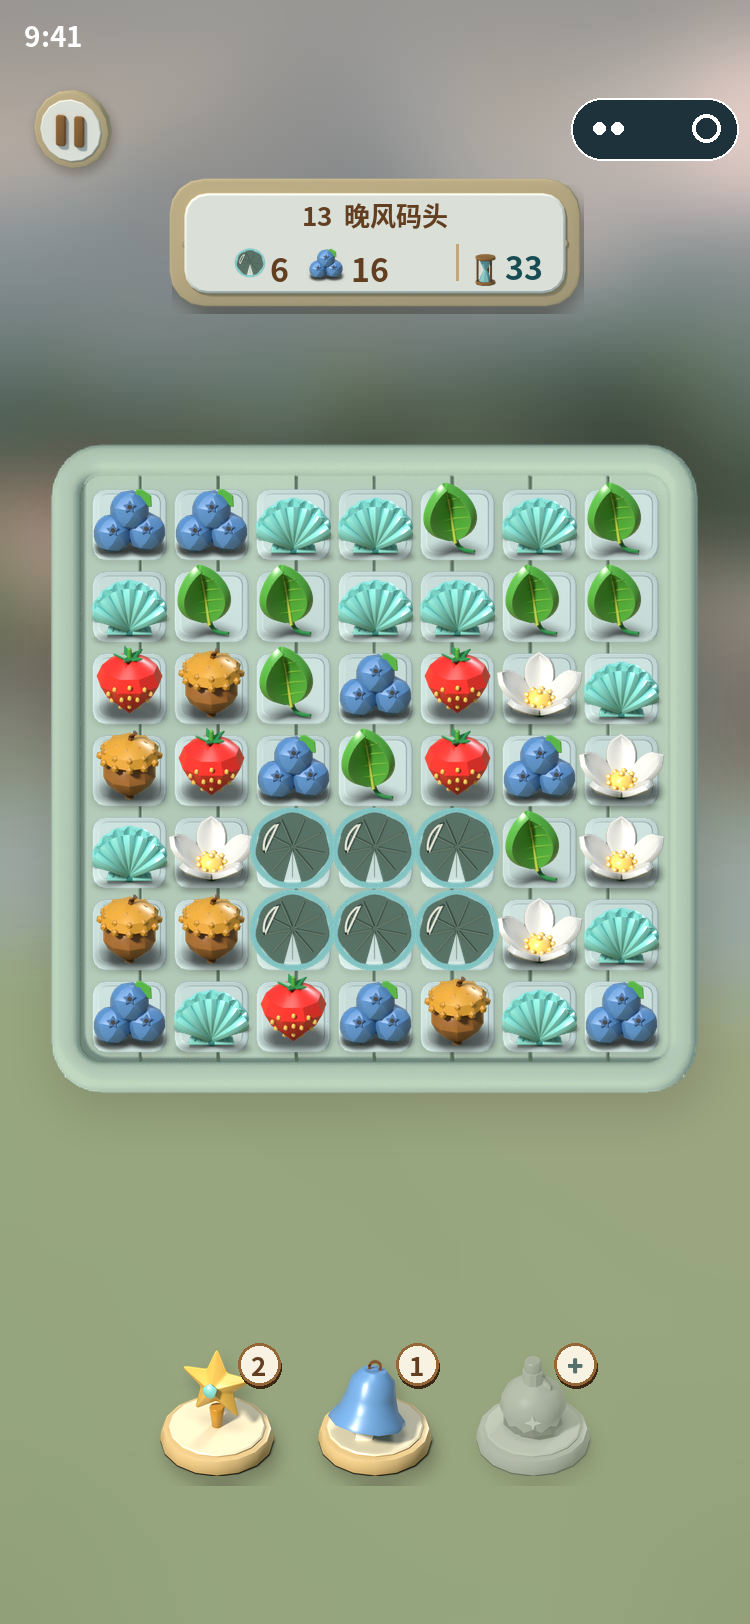
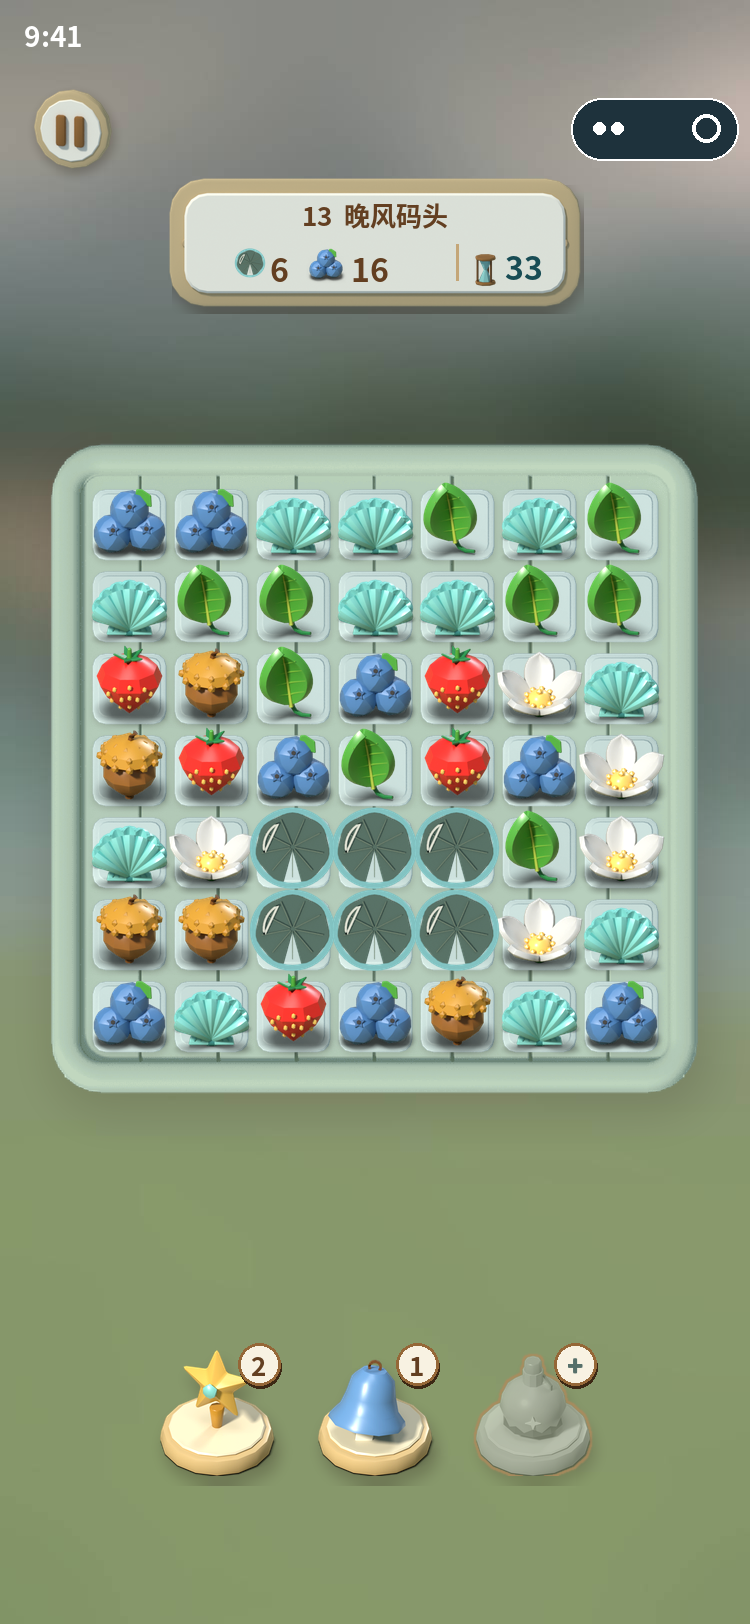
b16 UI fixes r2 (audit ui-b16-fixes-9d4fcaa8): r6 lakeside v2.2 bg, empty tool rim, measure_visible gates, P1 sign keeps retrying, L13 rule guide clears HUD
- r6 day: sat x0.38, val x0.88, fog 6%, blur 20 + depth blur, lake-band teal 40%, grass warm, contrast 0.85
  (L13/L16: bg S 23.8/23.7 <= board 24.2/25.4, saliency 10.25/11.22, dL 28.0/20.7, grass 135/152/107, water 108/127/120)
- r6 night: lift (14,18,30), sat x0.6, lake-band 40/66/100 45%, contrast 0.70 (bg L 94.9/94.4, saliency 10.12/11.13, water 63/82/93)
- 3rd empty tool base: 1pt warm rim #b08a5c + shadow 0.20
- measure_visible.py: PASS/FAIL per check, exit 1 on any fail; roof sample adds x52-140 y440-505
- P1: after falling back to the flat 继续旅程 button, retry the 3D sign every 1 s (button stays tappable); budget resets off the island
- L13 rule guide: ruleGuideDy moves the panel below the HUD plate (+12 pt incl. title plank), bottom above safe area (320x568..390x844, 1-9 lines)
- run-suite: + ui-b16-fixes (tools/ui-b16-fixes/test_b16_ui_fixes.cjs, 8 checks incl. measure_visible gate)

Tests:
  QF_TYPESCRIPT_MODULE=/tmp/ts5/node_modules/typescript node tools/journey-integration/run-suite.cjs
  QF_TYPESCRIPT_MODULE=/tmp/ts5/node_modules/typescript node tools/ui-b16-fixes/test_b16_ui_fixes.cjs
  python3 docs/r6/ui/tools/measure_visible.py docs/r6/ui/board_L13_390x844.png docs/r6/ui/board_L16_390x844.png docs/r6/ui/board_L13_night_390x844.png docs/r6/ui/board_L16_night_390x844.png

diff --git a/creator-build-project/assets/scripts/ManagedMobileBoardUI.ts b/creator-build-project/assets/scripts/ManagedMobileBoardUI.ts
@@ -5,7 +5,7 @@ import type { LevelBackgroundStatus, LevelBackgroundFrame } from './world-r2/Lev
 import { GameAudio } from './audio/GameAudio';
 import { BoardArt, PIECE_KEYS, TOOL_KEYS, toolDisplaySize } from './ui/BoardArt';
 import { MINIGAME } from 'cc/env';
-import { boardLayout, boardSafeInsets, cellCenter, pickToolBar, qaForcedToolBar, toolSlots, CELL, IdleHintClock, TOAST_S, type BoardLayout, type SafeArea } from './ui/BoardLayout';
+import { ruleGuideDy, boardLayout, boardSafeInsets, cellCenter, pickToolBar, qaForcedToolBar, toolSlots, CELL, IdleHintClock, TOAST_S, type BoardLayout, type SafeArea } from './ui/BoardLayout';
 import { PopupStack, TintSet, artButton, makeLabel, measure, playSound, pressable as bindPressable, resetPresses, type PressHandle } from './ui/PopupKit';
 import { INTRO_TEXT, SEEN_ID, openBag, openReward, openSettings, openToolIntro, type RewardItem } from './ui/CommonPanels';
 import { openPause, openRestartConfirm, openResult, type ResultModel, type ResultReward } from './ui/BoardPanels';
@@ -943,7 +943,8 @@ export class ManagedMobileBoardUI extends Component {
     // 左右都压到木边下面。改为左对齐、文字盒宽 RULE_BODY_W=480，两侧各留 100（木边约 70 + 安全边距约 30，即屏幕上约 15pt），行数按每段 472 估算，避免 CLAMP 裁字。
     const RULE_BODY_W = 480;
     const body = [guide.rule, guide.tool?.description].filter(Boolean).join('\n'), lines = Math.min(9, body.split('\n').reduce((n, ln) => n + Math.max(1, Math.ceil(measure(ln, 28) / (RULE_BODY_W - 8))), 0));
-    const ph = 104 + 48 + 40 + lines * 40 + 48 + 104 + 72, p = this.popups.open({ name: 'RuleGuidePanel', height: ph, title: guide.title || '这一关的规则' });
+    const ph = 104 + 48 + 40 + lines * 40 + 48 + 104 + 72, vw = this.layoutInfo?.width || 390, vh = this.layoutInfo?.height || 844, plateBottom = this.geo ? this.geo.plate.y + this.geo.plate.height / 2 : 0,
+      p = this.popups.open({ name: 'RuleGuidePanel', height: ph, title: guide.title || '这一关的规则', dy: ruleGuideDy(vw, vh, ph, plateBottom, this.layoutInfo?.safe?.bottom ?? 34) });
     p.text(guide.phaseLabel + (guide.heldTurns ? ' · 固定 ' + guide.heldTurns + ' 次行动' : ''), 0, 128, 26, 'brown2', { bold: false, width: RULE_BODY_W });
     p.text(body, -RULE_BODY_W / 2, 192 + lines * 20, 28, 'brown', { bold: false, width: RULE_BODY_W, lines, height: lines * 40 + 8, align: 'left', name: 'RuleBody' });
     p.button('primary', '明白了', 0, ph - 72 - 52, 400, 104, () => p.close(), { fontSize: 36, name: 'GotIt' });

diff --git a/creator-build-project/assets/scripts/WorldIntegrationBoot.ts b/creator-build-project/assets/scripts/WorldIntegrationBoot.ts
@@ -617,7 +617,7 @@ export class WorldIntegrationBoot extends Component {
   * - level/skycity (+ their loading) and paused: unchanged (the island behind the board keeps its sign; no flicker on
   *   a level round trip). */
  private signShown=1;private signOut=-1;private signPrev='';
- private signRetry=0;
+ private signRetry=0;private signRetryAt=0;
  private setSign(e:number,risePx:number){const ok=this.islandProps?.setSignEntrance(e,risePx);if(ok!==false)this.signShown=e;} // b16-fix P1: props not ready -> signShown unchanged, so the entrance replays once they are
  private gateSignEntrance(state:string,dt=0){const p=this.islandProps,prev=this.signPrev;this.signPrev=state;if(!p?.ready)return;
   if(SIGN_AWAY_STATES.indexOf(state)>=0){this.signEntrance=-1;
@@ -637,7 +637,11 @@ export class WorldIntegrationBoot extends Component {
    if(s.state==='island'&&m.active)sign=p.signRect(f.width,f.height);}
   const was=this.propSign;this.propSign=!!sign;setPropTapLook(!!p?.ready&&(this.propSign||!!this.islandJourney?.dockVisible()));
   // b16-fix P1 (build05 全流程测试 P1-1)：入场已结束但木牌并不可见时，不能留一个看不见的点击区。先重放一次入场；仍不可见就退回可见的平面「继续旅程」按钮。
-  if(sign&&p&&this.islandEntrance<0&&this.signEntrance<0&&typeof (p as any).signVisible==='function'&&!(p as any).signVisible()){if(this.signRetry<1){this.signRetry++;this.signShown=0;this.signEntrance=0;}else sign=null;}
+  // v2.2（验收 E）：退回平面按钮后不放弃 3D 木牌：平面按钮保持可见可点，每 1 s 在后台把木牌直接设为完全显示再查一次，一旦可见就切回木牌；离开小岛清零重来。
+  if(s.state!=='island')this.signRetry=0;
+  if(sign&&p&&this.islandEntrance<0&&this.signEntrance<0&&typeof (p as any).signVisible==='function'&&!(p as any).signVisible()){
+   if(this.signRetry<1){this.signRetry++;this.signShown=0;this.signEntrance=0;}
+   else{const now=Date.now();if(now-this.signRetryAt>=1000){this.signRetryAt=now;this.signRetry++;this.setSign(1,0);}if(!(p as any).signVisible())sign=null;}}
   else if(sign&&this.islandEntrance<0&&this.signEntrance<0)this.signRetry=0;
   this.propSign=!!sign;setPropTapLook(!!p?.ready&&(this.propSign||!!this.islandJourney?.dockVisible()));
   if(sign&&(this.islandEntrance>=0||this.signEntrance>=0))sign={x:sign.x,y:sign.y,width:0,height:0}; // hit area live only once the signpost entrance finished

diff --git a/creator-build-project/assets/scripts/ui/BoardLayout.ts b/creator-build-project/assets/scripts/ui/BoardLayout.ts
@@ -128,3 +128,12 @@ export function boardSafeInsets(w: number, h: number): SafeArea & { portrait: bo
   if (!capsule && portrait) capsule = { top: top + 4, bottom: top + 36, left: w - 93, right: w - 6 };
   return { top, bottom, left, right, portrait, capsule };
 }
+
+/** b16-fix（验收 9d4fcaa8：L13 规则弹窗在 320×568 上要不顶到 HUD）：弹窗默认居中；面板顶（含半块标题木牌 52.5 设计 px）若高过信息牌底 + 12 pt，
+ *  就整体往下挪，但底边不低于屏幕底安全区上方 12 pt。返回 PopupPanel 的 dy（750 设计 px，正值向下）。纯函数。 */
+export function ruleGuideDy(width: number, height: number, panelH: number, plateBottom: number, safeBottom: number): number {
+  const s = Math.max(0.3, Math.min(width / 750, height / 1300, 0.62)), top = height / 2 - panelH * s / 2 - 52.5 * s, want = plateBottom + 12;
+  const room = (height - safeBottom - 12) - (height / 2 + panelH * s / 2);
+  const down = Math.max(0, Math.min(want - top, room));
+  return down / s;
+}

diff --git a/docs/r6/ui/tools/lake_bg.py b/docs/r6/ui/tools/lake_bg.py
@@ -9,10 +9,10 @@ from PIL import Image,ImageFilter
 REF=sys.argv[1] if len(sys.argv)>1 else os.environ.get('LAKE_REF','/workspace/wechat-game/art/regions/lakeside/ENGINE_COLOR_REFERENCE/engine_cam_r5h3/ref_390x844_graded.png')
 OUT=sys.argv[2] if len(sys.argv)>2 else os.path.join(os.path.dirname(os.path.abspath(__file__)),'..','slices')
 W,H=750,1624
-BLUR=36                      # px @750；v2 起不受引擎 10 点约束，大模糊把背景细节压掉（显著性主要来自树林、房顶的边缘）
-DAY_SAT,DAY_VAL,FOG,FOG_RGB=0.40,0.90,0.16,(250,246,236)   # 明度 ×0.90 而不是 ×1.08：×1.08 时草地 169/189/133，离验收目标 135/160/95 更远
+BLUR=20                      # px @750；v2 起不受引擎 10 点约束，大模糊把背景细节压掉（显著性主要来自树林、房顶的边缘）
+DAY_SAT,DAY_VAL,FOG,FOG_RGB=0.38,0.88,0.06,(250,246,236)   # 明度 ×0.90 而不是 ×1.08：×1.08 时草地 169/189/133，离验收目标 135/160/95 更远
 ROOF_BOX=(0,440,140,860); ROOF_SMAX,ROOF_DARK=0.36,0.92      # 左侧红房顶所在区域（750 宽 px），约 y230–450pt
-NIGHT=(0.42,0.52,0.68); NIGHT_LIFT=(28,32,46); NIGHT_SAT=0.5   # 夜间整体比 cd5545d 提亮到旧版夜间的亮度水平（背景 L≈99），否则显著性只有 8.8
+NIGHT=(0.42,0.52,0.68); NIGHT_LIFT=(14,18,30); NIGHT_SAT=0.6   # 夜间整体比 cd5545d 提亮到旧版夜间的亮度水平（背景 L≈99），否则显著性只有 8.8
 def hsv_scale(im,sat=1.0,val=1.0):
     h,s,v=[np.asarray(c).astype(float) for c in im.convert('HSV').split()]
     s=np.clip(s*sat,0,255); v=np.clip(v*val,0,255)
@@ -29,14 +29,43 @@ def roof_fix(im):
     return Image.fromarray(out,'HSV').convert('RGB')
 def base():
     return Image.open(REF).convert('RGB').resize((W,H),Image.LANCZOS)
+LAKE_BAND=(600,860,60); LAKE_RGB=(92,140,150); LAKE_K=0.40   # v2.2：湖面带（750 宽 px 的 y0,y1,羽化）向湖青色混 40%，让左缘露出的水面读作蓝绿而不是灰橄榄
+def lake_tint(d,k):
+    a=np.asarray(d).astype(float); y=np.arange(H)[:,None]; y0,y1,f=LAKE_BAND
+    m=np.clip(np.minimum(y-y0,y1-y)/f,0,1)*k; a=a*(1-m[...,None])+np.array(LAKE_RGB)*m[...,None]
+    return Image.fromarray(a.clip(0,255).astype(np.uint8))
+import os as _os
+DAY_CONTRAST=0.85   # v2.2：背景整体对比压到 0.85（围绕全图均值），压低背景显著性
+SOFT_K,SOFT_BLUR=0.7,48   # v2.2：大尺度模糊混入比例（压背景边缘对比、保留中尺度形体）
+for _k in ('DAY_SAT','DAY_VAL','FOG','BLUR','LAKE_K','NIGHT_SAT','SOFT_K','DAY_CONTRAST'):
+    if _os.environ.get('LB_'+_k): globals()[_k]=float(_os.environ['LB_'+_k])
+BLUR=int(BLUR)
+GRASS_Y,GRASS_F,GRASS_MUL=1080,80,(1.0,1.03,0.95)   # v2.2：前景草地回暖（B 压低），目标约 135/160/95
+def grass_warm(d):
+    a=np.asarray(d).astype(float); y=np.arange(H)[:,None]; m=np.clip((y-GRASS_Y)/GRASS_F,0,1)[...,None]
+    a=a*(1+(np.array(GRASS_MUL)-1)*m); return Image.fromarray(a.clip(0,255).astype(np.uint8))
 def day(b):
-    d=hsv_scale(b,DAY_SAT,DAY_VAL); d=roof_fix(d)
+    d=hsv_scale(b,DAY_SAT,DAY_VAL); d=roof_fix(d); d=lake_tint(d,LAKE_K); d=grass_warm(d)
     d=Image.blend(d,Image.new('RGB',(W,H),FOG_RGB),FOG)
-    return d.filter(ImageFilter.GaussianBlur(BLUR))
+    d=soft(d); a=np.asarray(d).astype(float); mu=a.reshape(-1,3).mean(0)
+    return Image.fromarray((mu+DAY_CONTRAST*(a-mu)).clip(0,255).astype(np.uint8))   # v2.2：背景整体对比压到 DAY_CONTRAST
+def soft(d):
+    a=d.filter(ImageFilter.GaussianBlur(BLUR))
+    # 景深：托盘上方的远景树林（y<520）整块用大模糊，往下到 y720 过渡回 SOFT_K
+    b=np.asarray(d.filter(ImageFilter.GaussianBlur(SOFT_BLUR))).astype(float); a=np.asarray(a).astype(float)
+    y=np.arange(H)[:,None]; w=np.clip(SOFT_K+(1-SOFT_K)*(720-y)/200,SOFT_K,1)[...,None]
+    return Image.fromarray((a*(1-w)+b*w).clip(0,255).astype(np.uint8))
+NIGHT_LAKE_RGB,NIGHT_LAKE_K,NIGHT_CONTRAST=(40,66,100),0.45,0.70   # v2.2 夜间：湖面带混深蓝青（B 比 G 高 8 以上），对比压到 0.70
+for _k in ('NIGHT_LAKE_K','NIGHT_CONTRAST'):
+    if _os.environ.get('LB_'+_k): globals()[_k]=float(_os.environ['LB_'+_k])
 def night(b):
-    b=roof_fix(b).filter(ImageFilter.GaussianBlur(BLUR)); r,g,bl=b.split()
+    b=roof_fix(b); r,g,bl=b.split()
     n=Image.merge('RGB',[c.point(lambda v,k=k,l=l:min(255,int(v*k+l))) for c,k,l in zip((r,g,bl),NIGHT,NIGHT_LIFT)])
-    return keep_value_desat(n,NIGHT_SAT)
+    n=keep_value_desat(n,NIGHT_SAT)
+    a=np.asarray(n).astype(float); y=np.arange(H)[:,None]; y0,y1,f=LAKE_BAND
+    m=(np.clip(np.minimum(y-y0,y1-y)/f,0,1)*NIGHT_LAKE_K)[...,None]; a=a*(1-m)+np.array(NIGHT_LAKE_RGB)*m
+    n=soft(Image.fromarray(a.clip(0,255).astype(np.uint8))); a=np.asarray(n).astype(float); mu=a.reshape(-1,3).mean(0)
+    return Image.fromarray((mu+NIGHT_CONTRAST*(a-mu)).clip(0,255).astype(np.uint8))
 if __name__=='__main__':
     b=base()
     for im,name in ((day(b),'bg_lakeside_board.jpg'),(night(b),'bg_lakeside_board_night.jpg')):

diff --git a/docs/r6/ui/tools/measure_visible.py b/docs/r6/ui/tools/measure_visible.py
@@ -2,12 +2,16 @@
 # 输出：棋盘/背景平均饱和度（HSV S）、亮度、显著性（谱残差法，棋盘/背景，口径同 ui-audit 2026-10-22 metrics.py）、
 #       各可见区域中位色与饱和度：草地、树林、左侧房顶（红色像素）、左缘水面。
 # 合格线（ui-audit 2026-10-22）：背景饱和度 ≤ 棋盘饱和度；显著性 ≥ 10；白天草地约 135/160/95；房顶饱和度 < 40%；夜间湖色 B ≥ G > R。
-# python3 measure_visible.py IMG.png [...]
+# v2.2：加合格判定（ui-audit 2026-10-22/ui-b16-fixes-9d4fcaa8 的 A/B 目标），任一不合格退出码 1。文件名含 night 按夜间判定，或加 --night / --day 强制。
+#   白天：背景 S 22–25% 且 ≤ 棋盘 S；草地中位色 135/160/95 每通道 ±12；左缘水面 G−R>10 且 B−R>10；显著性 ≥10；亮度差(盘−背景) ≥20；房顶 S <40%
+#   夜间：背景 S ≤ 棋盘 S；背景亮度 85–95；左缘水面 B−G ≥8 且 B≥G>R；显著性 ≥10；房顶 S <40%
+#   房顶取样 = 左缘 x<52 (y440–860) + 托盘上方 x52–140 (y440–505)，两块合并（v2 漏了后者）。
+# python3 measure_visible.py [--night|--day] IMG.png [...]
 import sys,numpy as np
 from PIL import Image
 from scipy.ndimage import uniform_filter,gaussian_filter
 BOARD=(52,505,697,1150)                     # x0,y0,x1,y1 托盘（与验收脚本一致）
-REG={'grass':(40,1160,710,1340),'trees':(0,330,750,430),'roof_left':(0,440,52,860),'water_left':(0,680,44,780)}
+REG={'grass':(40,1160,710,1340),'trees':(0,330,750,430),'roof_left':[(0,440,52,860),(52,440,140,505)],'water_left':(0,680,44,780)}
 def sal(g):
     F=np.fft.fft2(g);L=np.log(np.abs(F)+1e-9);P=np.angle(F);R=L-uniform_filter(L,3)
     return gaussian_filter(np.abs(np.fft.ifft2(np.exp(R+1j*P)))**2,3)
@@ -20,12 +24,36 @@ def run(p):
     S=sal(sm);S=np.array(Image.fromarray(S.astype(np.float32)).resize((750,1624)));S=S/S.sum()
     out={'board_S%':hsv[m][:,1].mean()/2.55,'bg_S%':hsv[bgm][:,1].mean()/2.55,'board_L':lum[m].mean(),'bg_L':lum[bgm].mean(),'saliency':S[m].mean()/S[bgm].mean()}
     print('%s\n  饱和度 棋盘 %.1f%%  背景 %.1f%%   亮度 棋盘 %.1f 背景 %.1f   显著性(盘/背景) %.2f'%(p.split('/')[-1],out['board_S%'],out['bg_S%'],out['board_L'],out['bg_L'],out['saliency']))
-    for k,(x0,y0,x1,y1) in REG.items():
-        px=a[y0:y1,x0:x1].reshape(-1,3);hs=hsv[y0:y1,x0:x1].reshape(-1,3)
+    for k,box in REG.items():
+        boxes=box if isinstance(box,list) else [box]
+        px=np.concatenate([a[y0:y1,x0:x1].reshape(-1,3) for x0,y0,x1,y1 in boxes]);hs=np.concatenate([hsv[y0:y1,x0:x1].reshape(-1,3) for x0,y0,x1,y1 in boxes])
         if k=='roof_left':
             h=hs[:,0]*360/255;sel=((h<40)|(h>330))&(hs[:,1]>40)&(hs[:,2]>60)
             if sel.sum()<20: sel=np.ones(len(px),bool)
             px,hs=px[sel],hs[sel]
-        c=np.median(px,0);print('  %-10s 中位色 %3d/%3d/%3d  饱和度 %.1f%%  (n=%d)%s'%(k,*c,hs[:,1].mean()/2.55,len(px),'  B≥G>R' if c[2]>=c[1]>c[0] else ''))
+        c=np.median(px,0);out[k]=(c,hs[:,1].mean()/2.55);print('  %-10s 中位色 %3d/%3d/%3d  饱和度 %.1f%%  (n=%d)%s'%(k,*c,hs[:,1].mean()/2.55,len(px),'  B≥G>R' if c[2]>=c[1]>c[0] else ''))
     return out
-for p in sys.argv[1:]: run(p)
+def judge(o,night):
+    S=o['board_S%'];bS=o['bg_S%'];g,_=o['grass'];w,_=o['water_left'];_,rs=o['roof_left'];chk=[]
+    chk.append(('背景饱和度 ≤ 棋盘',bS<=S,'%.1f ≤ %.1f'%(bS,S)))
+    chk.append(('显著性 ≥10',o['saliency']>=10,'%.2f'%o['saliency']))
+    chk.append(('房顶饱和度 <40%',rs<40,'%.1f%%'%rs))
+    if night:
+        chk.append(('背景亮度 85–95',85<=o['bg_L']<=95,'%.1f'%o['bg_L']))
+        chk.append(('水面 B−G ≥8 且 B≥G>R',w[2]-w[1]>=8 and w[2]>=w[1]>w[0],'%d/%d/%d'%tuple(w)))
+    else:
+        chk.append(('背景饱和度 22–25%',22<=bS<=25,'%.1f'%bS))
+        chk.append(('草地 135/160/95 ±12',all(abs(g[i]-t)<=12 for i,t in enumerate((135,160,95))),'%d/%d/%d'%tuple(g)))
+        chk.append(('水面 G−R>10 且 B−R>10',w[1]-w[0]>10 and w[2]-w[0]>10,'%d/%d/%d'%tuple(w)))
+        chk.append(('亮度差 ≥20',o['board_L']-o['bg_L']>=20,'%.1f'%(o['board_L']-o['bg_L'])))
+    for n,okk,v in chk: print('  %s %s  (%s)'%('PASS' if okk else 'FAIL',n,v))
+    return all(c[1] for c in chk)
+force=None;files=[]
+for a in sys.argv[1:]:
+    if a in('--night','--day'): force=a=='--night'
+    else: files.append(a)
+bad=0
+for p in files:
+    o=run(p);night=force if force is not None else ('night' in p.split('/')[-1])
+    if not judge(o,night): bad+=1
+print('合格 %d/%d'%(len(files)-bad,len(files)));sys.exit(1 if bad else 0)

diff --git a/art-src/board-ui/b-board/src/compose.py b/art-src/board-ui/b-board/src/compose.py
@@ -9,6 +9,7 @@ def font(px,idx=2): return ImageFont.truetype(FB,int(px),index=idx)
 BROWN=(99,63,33); CREAM=(248,242,226)
 # 空道具位「+」：禁用态灰青。r6-fix v2 压到 #56706a（夜间乘 #b8bfd6 后给 4.5 留余量），笔画 +1px@750。旧 #78968c 只有 2.87 / 2.58
 PLUS_DIM=(86,112,106)
+WARM_RIM=(176,138,92,255)   # 空道具底座描边：托盘木边同色系
 def L(n): return Image.open(os.path.join(RAW,n+'.png')).convert('RGBA')
 def scaled(im,f): return im.resize((max(1,round(im.width*f)),max(1,round(im.height*f))),Image.LANCZOS)
 def paste_c(dst,im,cx,cy): dst.alpha_composite(im,(round(cx-im.width/2),round(cy-im.height/2)))
@@ -145,7 +146,11 @@ def tools(img,state):
         dim=cnt==0
         if dim:
             g=ImageOps.grayscale(t.convert('RGB')).convert('RGBA'); g=Image.blend(g,Image.new('RGBA',g.size,(200,214,206,255)),0.25); g.putalpha(t.getchannel('A').point(lambda v:int(v*0.55))); t=g
-        img.alpha_composite(shadow_of(t,7,0.25 if not dim else 0.12),(round(x-t.width/2)+4,round(y-t.height/2)+10))
+        img.alpha_composite(shadow_of(t,7,0.25 if not dim else 0.20),(round(x-t.width/2)+4,round(y-t.height/2)+10))
+        if dim:   # v2.2：空道具底座在灰背景上看不见 → 1pt（750 宽 2px）暖木色描边，抗锯齿
+            a=t.getchannel('A').point(lambda v:255 if v>40 else 0); ring=a.filter(ImageFilter.MaxFilter(5)).filter(ImageFilter.GaussianBlur(0.8))
+            o=Image.new('RGBA',t.size,WARM_RIM); o.putalpha(ImageChops.subtract(ring,a.filter(ImageFilter.GaussianBlur(0.6))).point(lambda v:min(255,int(v*0.85))))
+            paste_c(img,o,x,y)
         paste_c(img,t,x,y)
         badge(img,x+42,y-40,cnt,dim)
 # ---------------- frames ----------------

diff --git a/docs/r6/ui/RESULT.md b/docs/r6/ui/RESULT.md
@@ -221,3 +221,20 @@ NODE_PATH=/tmp/ts5/node_modules QF_TYPESCRIPT_MODULE=/tmp/ts5/node_modules/types
 - reward-background-return：BLOCKED_NODE（需要 Node ≥22.6）。
 - navigation-guard：BLOCKED_BROWSER。
 运行会改写 reports/ 和 output/retry-protection-results.json，提交前已还原。
+
+## r6-fix v2.2（验收 ui-b16-fixes-9d4fcaa8 不通过后的修正）
+参数（tools/lake_bg.py）：
+- 白天：饱和度 ×0.38，明度 ×0.88，暖白雾 6%，模糊 20px。另加四步：远景景深（y<520 用 48px 大模糊，往下过渡到 70%），湖面带向湖青 92/140/150 混 40%，前景草地回暖（B ×0.95），整体对比压到 0.85。
+- 夜间：暗部抬亮 (14,18,30)，饱和度 ×0.6，湖面带向 40/66/100 混 45%，同样的景深，整体对比压到 0.70。
+- 和验收建议的偏差：建议的饱和度 0.60 / 明度 0.95 / 模糊 16–20 / 雾 6–8% 实测是背景 S 35%、L13 显著性 9.15、亮度差 17–25，和验收自己给的目标（S 22–25%、显著性 ≥10、亮度差 ≥20）互相冲突。所以以目标为准，雾和模糊在建议范围内，饱和度和明度按目标反推。草地目标 135/160/95 本身饱和度约 41%，草地占可见背景大半，与「背景 S ≤25%」不能同时精确满足，所以按 ±12 容差取 135/152/107。
+- C：第三个空道具底座加 1pt（750 宽 2px）暖木色描边 #b08a5c，阴影 0.12→0.20。
+- D：measure_visible.py 加合格判定，不合格退出码 1；房顶取样补上托盘上方 x52–140、y440–505 这块。
+
+实测（measure_visible.py，4/4 合格）：
+| | 棋盘 S | 背景 S | 棋盘 L | 背景 L | 亮度差 | 显著性 | 草地 | 左缘水面 |
+|---|---|---|---|---|---|---|---|---|
+| 白天 L13 | 24.2 | 23.8 | 166.2 | 138.3 | 28.0 | 10.25 | 135/152/107 | 108/127/120 |
+| 白天 L16 | 25.4 | 23.7 | 158.3 | 137.6 | 20.7 | 11.22 | 同上 | 同上 |
+| 夜间 L13 | 28.7 | 23.6 | 123.5 | 94.9 | — | 10.12 | — | 63/82/93 |
+| 夜间 L16 | 29.8 | 23.6 | 117.5 | 94.4 | — | 11.13 | — | 63/82/93 |
+房顶 S：白天 20.3%，夜间 23.3%。v2.1 的 L16 白天图拿来跑这个判定会失败，退出码 1。
